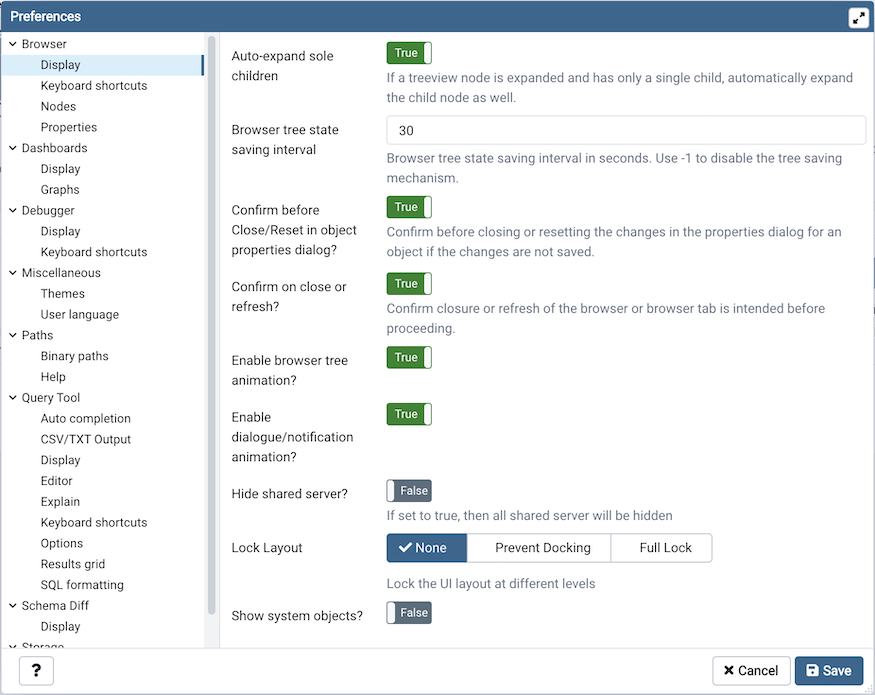
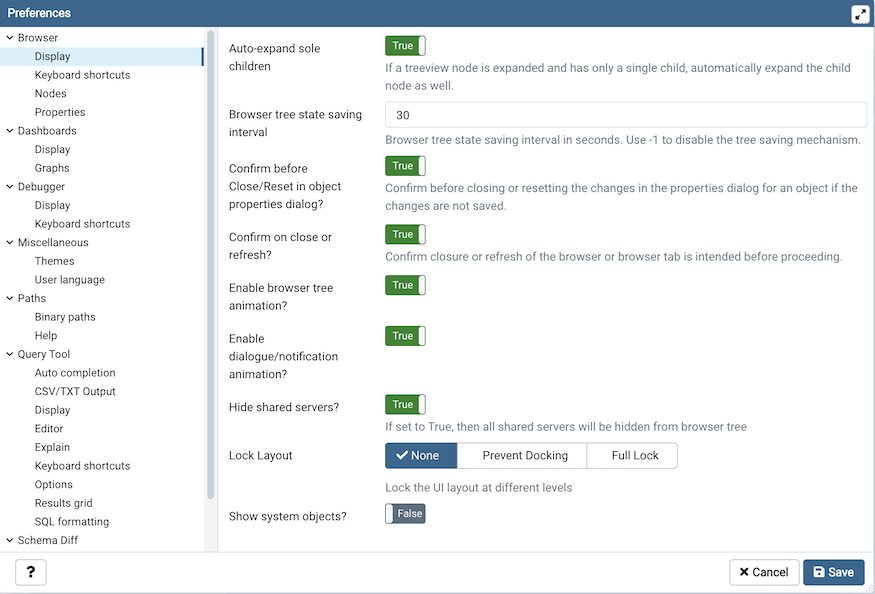
Fixed an issue where some properties are not being updated correctly for the shared server. Fixes #5867

diff --git a/web/pgadmin/browser/server_groups/servers/static/js/server.js b/web/pgadmin/browser/server_groups/servers/static/js/server.js
@@ -269,7 +269,10 @@ define('pgadmin.node.server', [
                 gettext('Are you sure you want to disconnect the server %s?', d.label),
                 function() { disconnect(); },
                 function() { return true;}
-              );
+              ).set('labels', {
+                ok: gettext('Ok'),
+                cancel: gettext('Cancel'),
+              });
             } else {
               disconnect();
             }
@@ -752,6 +755,11 @@ define('pgadmin.node.server', [
         },
         schema: [{
           id: 'id', label: gettext('ID'), type: 'int', mode: ['properties'],
+          visible: function(model){
+            if (model.attributes.user_id != current_user.id && pgAdmin.server_mode == 'True')
+              return false;
+            return true;
+          },
         },{
           id: 'name', label: gettext('Name'), type: 'text',
           mode: ['properties', 'edit', 'create'], disabled: 'isShared',
@@ -759,7 +767,7 @@ define('pgadmin.node.server', [
         {
           id: 'gid', label: gettext('Server group'), type: 'int',
           control: 'node-list-by-id', node: 'server_group',
-          mode: ['create', 'edit'], select2: {allowClear: false}, visible: 'isVisible',
+          mode: ['create', 'edit'], select2: {allowClear: false}, disabled: 'isShared',
         },
         {
           id: 'server_owner', label: gettext('Shared Server Owner'), type: 'text', mode: ['properties'],
@@ -795,7 +803,7 @@ define('pgadmin.node.server', [
           id: 'connect_now', controlLabel: gettext('Connect now?'), type: 'checkbox',
           group: null, mode: ['create'],
         },{
-          id: 'shared', label: gettext('Shared with all?'), type: 'switch',
+          id: 'shared', label: gettext('Shared?'), type: 'switch',
           mode: ['properties', 'create', 'edit'], 'options': {'size': 'mini'},
           readonly: function(model){
             var serverOwner = model.attributes.user_id;

diff --git a/web/pgadmin/browser/server_groups/servers/__init__.py b/web/pgadmin/browser/server_groups/servers/__init__.py
@@ -139,13 +139,16 @@ class ServerModule(sg.ServerGroupPluginModule):
         Return shared server properties
         :param server:
         :param sharedserver:
-        :return:
+        :return: shared server
         """
-
         server.bgcolor = sharedserver.bgcolor
         server.fgcolor = sharedserver.fgcolor
         server.name = sharedserver.name
         server.role = sharedserver.role
+        server.use_ssh_tunnel = sharedserver.use_ssh_tunnel
+        server.tunnel_host = sharedserver.tunnel_host
+        server.tunnel_port = sharedserver.tunnel_port
+        server.tunnel_authentication = sharedserver.tunnel_authentication
         server.tunnel_username = sharedserver.tunnel_username
         server.tunnel_password = sharedserver.tunnel_password
         server.save_password = sharedserver.save_password
@@ -157,45 +160,53 @@ class ServerModule(sg.ServerGroupPluginModule):
 
         return server
 
-    @staticmethod
-    def check_to_hide_shared_server(hide_shared_server, shared_server,
-                                    auto_detected_server):
+    def get_servers(self, all_servers, hide_shared_server, gid):
+        """
+        This function creates list of servers which needs to display
+        in browser tree
+        :param all_servers:
+        :param hide_shared_server:
+        :param gid:
+        :return: list of servers
+        """
+        servers = []
+        for server in all_servers:
+            if server.discovery_id and \
+                not server.shared and \
+                config.SERVER_MODE and \
+                len(SharedServer.query.filter_by(
+                    user_id=current_user.id,
+                    name=server.name).all()) > 0 and not hide_shared_server:
+                continue
 
-        hide_server = False
-        if hide_shared_server or \
-                shared_server.name == auto_detected_server:
-            hide_server = True
+            if server.shared and server.user_id != current_user.id:
 
-        return hide_server
+                shared_server = self.get_shared_server(server, gid)
+
+                if hide_shared_server:
+                    # Don't include shared server if hide shared server is
+                    # set to true.
+                    continue
+
+                server = self.get_shared_server_properties(server,
+                                                           shared_server)
+            servers.append(server)
+
+        return servers
 
     @login_required
     def get_nodes(self, gid):
         """Return a JSON document listing the server groups for the user"""
 
         hide_shared_server = get_preferences()
-
         servers = Server.query.filter(
             or_(Server.user_id == current_user.id, Server.shared),
             Server.servergroup_id == gid)
 
         driver = get_driver(PG_DEFAULT_DRIVER)
+        servers = self.get_servers(servers, hide_shared_server, gid)
 
         for server in servers:
-
-            if server.shared and server.user_id != current_user.id:
-
-                shared_server, auto_detected_server = \
-                    self.get_shared_server(server, gid)
-
-                if self.check_to_hide_shared_server(hide_shared_server,
-                                                    shared_server,
-                                                    auto_detected_server):
-                    # Don't include shared server if hide shared server is
-                    # set to true
-                    continue
-
-                server = self.get_shared_server_properties(server,
-                                                           shared_server)
             connected = False
             manager = None
             errmsg = None
@@ -323,6 +334,7 @@ class ServerModule(sg.ServerGroupPluginModule):
 
         shared_server = None
         try:
+            db.session.rollback()
             user = User.query.filter_by(id=data.user_id).first()
             shared_server = SharedServer(
                 user_id=current_user.id,
@@ -346,13 +358,13 @@ class ServerModule(sg.ServerGroupPluginModule):
                 fgcolor=data.fgcolor if data.fgcolor else None,
                 service=data.service if data.service else None,
                 connect_timeout=0,
-                use_ssh_tunnel=0,
-                tunnel_host=None,
+                use_ssh_tunnel=data.use_ssh_tunnel,
+                tunnel_host=data.tunnel_host,
                 tunnel_port=22,
                 tunnel_username=None,
                 tunnel_authentication=0,
                 tunnel_identity_file=None,
-                shared=data.shared if data.shared else None
+                shared=True
             )
             db.session.add(shared_server)
             db.session.commit()
@@ -372,12 +384,9 @@ class ServerModule(sg.ServerGroupPluginModule):
         :param gid:
         :return: shared_server
         """
-        auto_detected_server = None
         shared_server = SharedServer.query.filter_by(
             name=server.name, user_id=current_user.id,
             servergroup_id=gid).first()
-        if server.discovery_id:
-            auto_detected_server = server.name
 
         if shared_server is None:
             ServerModule.create_shared_server(server, gid)
@@ -386,7 +395,7 @@ class ServerModule(sg.ServerGroupPluginModule):
                 name=server.name, user_id=current_user.id,
                 servergroup_id=gid).first()
 
-        return shared_server, auto_detected_server
+        return shared_server
 
 
 class ServerMenuItem(MenuItem):
@@ -494,8 +503,7 @@ class ServerNode(PGChildNodeView):
 
         for server in servers:
             if server.shared and server.user_id != current_user.id:
-                shared_server, auto_detected_server = \
-                    ServerModule.get_shared_server(server, gid)
+                shared_server = ServerModule.get_shared_server(server, gid)
                 server = \
                     ServerModule.get_shared_server_properties(server,
                                                               shared_server)
@@ -552,8 +560,7 @@ class ServerNode(PGChildNodeView):
         server = Server.query.filter_by(id=sid).first()
 
         if server.shared and server.user_id != current_user.id:
-            shared_server, auto_detected_server = \
-                ServerModule.get_shared_server(server, gid)
+            shared_server = ServerModule.get_shared_server(server, gid)
             server = ServerModule.get_shared_server_properties(server,
                                                                shared_server)
 
@@ -677,8 +684,7 @@ class ServerNode(PGChildNodeView):
 
         if config.SERVER_MODE and server.shared and \
                 server.user_id != current_user.id:
-            sharedserver, auto_detected_server = \
-                ServerModule.get_shared_server(server, gid)
+            sharedserver = ServerModule.get_shared_server(server, gid)
 
         # Not all parameters can be modified, while the server is connected
         config_param_map = {
@@ -781,6 +787,8 @@ class ServerNode(PGChildNodeView):
                 True,
                 self.node_type,
                 connected=connected,
+                shared=server.shared,
+                user_id=server.user_id,
                 user=manager.user_info if connected else None,
                 server_type='pg'  # default server type
             )
@@ -849,8 +857,7 @@ class ServerNode(PGChildNodeView):
 
         for server in servers:
             if server.shared and server.user_id != current_user.id:
-                shared_server, auto_detected_server = \
-                    ServerModule.get_shared_server(server, gid)
+                shared_server = ServerModule.get_shared_server(server, gid)
                 server = \
                     ServerModule.get_shared_server_properties(server,
                                                               shared_server)
@@ -907,10 +914,8 @@ class ServerNode(PGChildNodeView):
         conn = manager.connection()
         connected = conn.connected()
 
-        # if server.shared and not current_user.has_role("Administrator"):
         if server.shared and server.user_id != current_user.id:
-            shared_server, auto_detected_server = \
-                ServerModule.get_shared_server(server, gid)
+            shared_server = ServerModule.get_shared_server(server, gid)
             server = ServerModule.get_shared_server_properties(server,
                                                                shared_server)
             server_owner = server.server_owner
@@ -1136,6 +1141,7 @@ class ServerNode(PGChildNodeView):
                     self.node_type,
                     user=user,
                     connected=connected,
+                    shared=server.shared,
                     server_type=manager.server_type
                     if manager and manager.server_type
                     else 'pg',
@@ -1265,8 +1271,7 @@ class ServerNode(PGChildNodeView):
         server = Server.query.filter_by(id=sid).first()
         shared_server = None
         if server.shared and server.user_id != current_user.id:
-            shared_server, auto_detected_server = \
-                ServerModule.get_shared_server(server, gid)
+            shared_server = ServerModule.get_shared_server(server, gid)
             server = ServerModule.get_shared_server_properties(server,
                                                                shared_server)
         if server is None:

diff --git a/web/pgadmin/browser/register_browser_preferences.py b/web/pgadmin/browser/register_browser_preferences.py
@@ -27,10 +27,11 @@ def register_browser_preferences(self):
     if config.SERVER_MODE:
         self.hide_shared_server = self.preference.register(
             'display', 'hide_shared_server',
-            gettext("Hide shared server?"), 'boolean', False,
+            gettext("Hide shared servers?"), 'boolean', False,
             category_label=gettext('Display'),
             help_str=gettext(
-                'If set to true, then all shared server will be hidden'
+                'If set to True, then all shared servers will be '
+                'hidden from browser tree'
             )
         )
 

diff --git a/docs/en_US/server_dialog.rst b/docs/en_US/server_dialog.rst
@@ -30,7 +30,7 @@ Use the fields in the *General* tab to identify the server:
 * If the *Connect now?* checkbox is checked, the client will attempt a
   connection to the server upon completion of the dialog; this is the default
 
-* If the *Shared with all?* switch is moved to *Yes* then that server can be
+* If the *Shared?* switch is moved to *Yes* then that server can be
   shared with all the other users. This option is available only to admin users. For more information on users see :ref:`User Management Dialog <user_management>`. The users can access the shared servers with some restritctions. The Users accessing the shared servers cannot do the following operations on the shared servers:
 
     * Create a server

diff --git a/docs/en_US/release_notes_4_27.rst b/docs/en_US/release_notes_4_27.rst
@@ -34,3 +34,4 @@ Bug fixes
 | `Issue #5843 <https://redmine.postgresql.org/issues/5843>`_ -  Fixed an issue where the 'PARALLEL UNSAFE' option is missing from reverse engineering SQL of function/procedure.
 | `Issue #5845 <https://redmine.postgresql.org/issues/5845>`_ -  Fixed an issue where the query tool is not fetching more than 1000 rows for the table does not have any primary key.
 | `Issue #5861 <https://redmine.postgresql.org/issues/5861>`_ -  Ensure that the 'Remove Server' option should be visible in the context menu.
+| `Issue #5867 <https://redmine.postgresql.org/issues/5867>`_ -  Fixed an issue where some properties are not being updated correctly for the shared server.

diff --git a/docs/en_US/preferences.rst b/docs/en_US/preferences.rst
@@ -49,7 +49,7 @@ Use the fields on the *Display* panel to specify general display preferences:
   the client will display the animated dialogues/notifications otherwise it
   will be unanimated.
 
-* When the *Hide shared server?* switch is set to *True*, the client will hide
+* When the *Hide shared servers?* switch is set to *True*, the client will hide
   all the shared servers from the browser tree.
 
 * Use the *Lock layout* field to lock the UI layout at different levels. This
